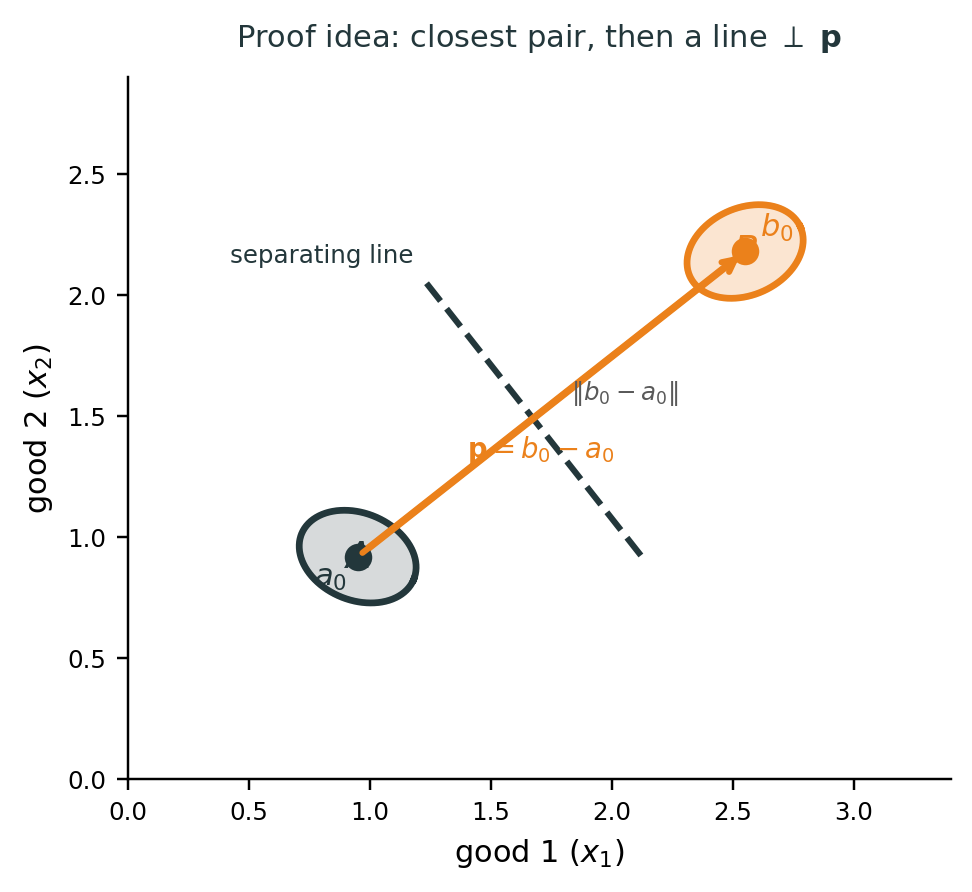
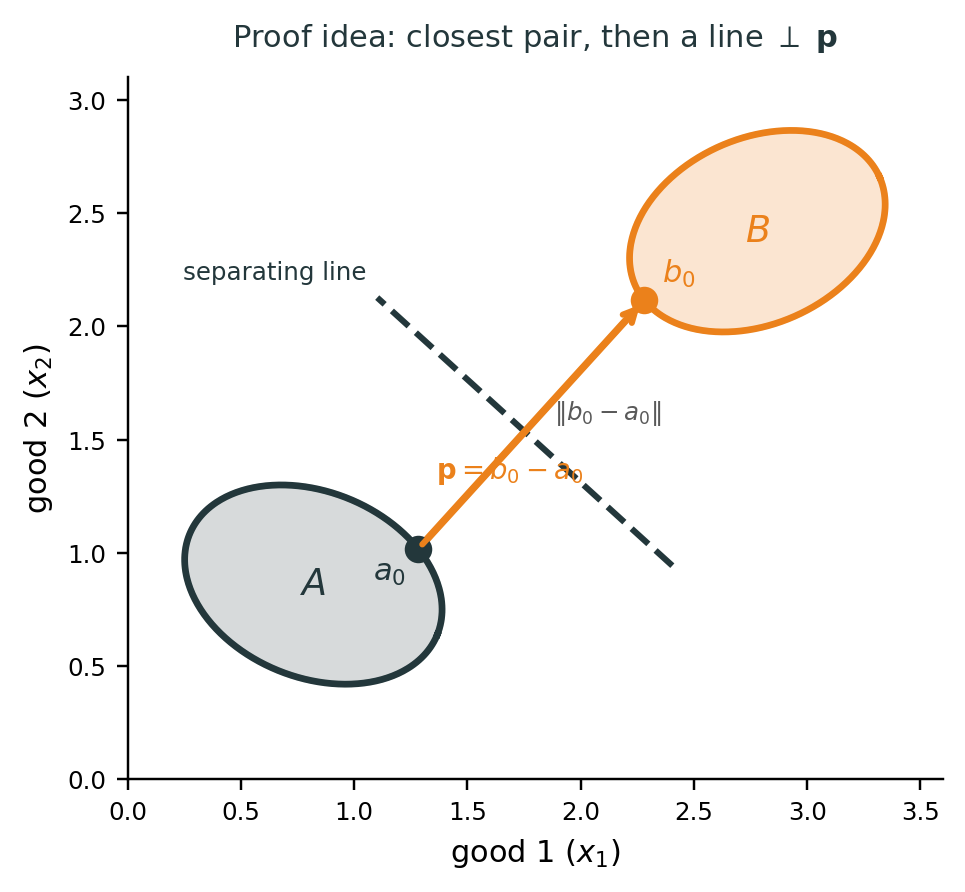
Place closest points on ellipse boundaries in separation figures.
Enlarge sets A and B and compute a_0, b_0 on their boundaries toward the other set for both the main and proof-idea plots.

diff --git a/slides/day 3/figures/make_separation_plot.py b/slides/day 3/figures/make_separation_plot.py
@@ -27,6 +27,22 @@ def _ellipse_points(
     return center[0] + xy[0], center[1] + xy[1]
 
 
+def _boundary_point_toward(
+    center: tuple[float, float] | np.ndarray,
+    width: float,
+    height: float,
+    angle_deg: float,
+    direction: np.ndarray,
+) -> np.ndarray:
+    """Boundary point of the ellipse farthest from center in `direction`."""
+    xs, ys = _ellipse_points(center, width, height, angle_deg)
+    center_arr = np.asarray(center, dtype=float)
+    d = direction / np.linalg.norm(direction)
+    scores = d[0] * (xs - center_arr[0]) + d[1] * (ys - center_arr[1])
+    idx = int(np.argmax(scores))
+    return np.array([xs[idx], ys[idx]])
+
+
 def _dot_range(
     center: tuple[float, float],
     width: float,
@@ -40,15 +56,27 @@ def _dot_range(
 
 
 def _proof_geometry() -> dict:
-    center_a = np.array([0.95, 0.92])
-    center_b = np.array([2.55, 2.18])
-    width, height = 0.50, 0.36
+    center_a = np.array([0.82, 0.86])
+    center_b = np.array([2.78, 2.42])
+    width, height = 1.18, 0.82
     angle_a, angle_b = -22.0, 24.0
-    p = np.array([0.72, 0.69])
-    p = p / np.linalg.norm(p)
-    max_a, _ = _dot_range(tuple(center_a), width, height, angle_a, p)
-    _, min_b = _dot_range(tuple(center_b), width, height, angle_b, p)
-    beta = max_a + 0.45 * (min_b - max_a)
+
+    toward_b = center_b - center_a
+    toward_a = center_a - center_b
+    a0 = _boundary_point_toward(center_a, width, height, angle_a, toward_b)
+    b0 = _boundary_point_toward(center_b, width, height, angle_b, toward_a)
+
+    p_vec = b0 - a0
+    p_unit = p_vec / np.linalg.norm(p_vec)
+
+    max_a, _ = _dot_range(tuple(center_a), width, height, angle_a, p_unit)
+    _, min_b = _dot_range(tuple(center_b), width, height, angle_b, p_unit)
+    gap = min_b - max_a
+    if gap <= 0.03:
+        raise RuntimeError("Ellipses overlap along separating direction.")
+
+    beta = max_a + 0.45 * gap
+
     return {
         "center_a": center_a,
         "center_b": center_b,
@@ -56,11 +84,11 @@ def _proof_geometry() -> dict:
         "height": height,
         "angle_a": angle_a,
         "angle_b": angle_b,
-        "p_unit": p,
+        "p_unit": p_unit,
         "beta": beta,
-        "a0": center_a,
-        "b0": center_b,
-        "p_vec": center_b - center_a,
+        "a0": a0,
+        "b0": b0,
+        "p_vec": p_vec,
     }
 
 
@@ -126,21 +154,33 @@ def _draw_ellipses(ax: plt.Axes, geom: dict) -> None:
     )
 
 
+def _axis_style(ax: plt.Axes, title: str) -> None:
+    ax.set_xlim(0.0, 3.6)
+    ax.set_ylim(0.0, 3.1)
+    ax.set_xlabel(r"good 1 ($x_1$)", fontsize=10)
+    ax.set_ylabel(r"good 2 ($x_2$)", fontsize=10)
+    ax.set_title(title, fontsize=10, color=DARK_TEAL, pad=10)
+    ax.set_aspect("equal", adjustable="box")
+    ax.spines["top"].set_visible(False)
+    ax.spines["right"].set_visible(False)
+    ax.tick_params(labelsize=8)
+
+
 def make_separation_plot() -> None:
     """A below a downward-sloping line; B above; p has positive components."""
     geom = _proof_geometry()
     p = geom["p_unit"]
     beta = geom["beta"]
-    center_a = geom["center_a"]
-    center_b = geom["center_b"]
+    a0 = geom["a0"]
+    b0 = geom["b0"]
 
     fig, ax = plt.subplots(figsize=(5.6, 4.2), dpi=220)
     _draw_ellipses(ax, geom)
 
     tangent = np.array([-p[1], p[0]])
-    gap_mid = 0.5 * (center_a + center_b)
+    gap_mid = 0.5 * (a0 + b0)
     line_center = gap_mid - (np.dot(p, gap_mid) - beta) * p
-    seg_half = 0.62
+    seg_half = 0.78
     line_start = line_center - seg_half * tangent
     line_end = line_center + seg_half * tangent
     ax.plot(
@@ -169,20 +209,7 @@ def make_separation_plot() -> None:
         zorder=6,
     )
 
-    ax.set_xlim(0.0, 3.4)
-    ax.set_ylim(0.0, 2.9)
-    ax.set_xlabel(r"good 1 ($x_1$)", fontsize=10)
-    ax.set_ylabel(r"good 2 ($x_2$)", fontsize=10)
-    ax.set_title(
-        r"Disjoint convex sets separated by a line",
-        fontsize=10,
-        color=DARK_TEAL,
-        pad=10,
-    )
-    ax.set_aspect("equal", adjustable="box")
-    ax.spines["top"].set_visible(False)
-    ax.spines["right"].set_visible(False)
-    ax.tick_params(labelsize=8)
+    _axis_style(ax, r"Disjoint convex sets separated by a line")
 
     out = OUT_DIR / "separation_hyperplane.png"
     fig.subplots_adjust(top=0.90, bottom=0.14, left=0.12, right=0.98)
@@ -192,7 +219,7 @@ def make_separation_plot() -> None:
 
 
 def make_separation_proof_plot() -> None:
-    """Proof idea: closest pair, normal p=b0-a0, perpendicular separating line."""
+    """Proof idea: closest pair on boundaries, normal p=b0-a0, separating line."""
     geom = _proof_geometry()
     a0 = geom["a0"]
     b0 = geom["b0"]
@@ -207,8 +234,8 @@ def make_separation_proof_plot() -> None:
     ax.plot([a0[0], b0[0]], [a0[1], b0[1]], color=ACCENT, linewidth=2.4, zorder=5)
     ax.plot(a0[0], a0[1], "o", color=DARK_TEAL, markersize=8, zorder=6)
     ax.plot(b0[0], b0[1], "o", color=ACCENT, markersize=8, zorder=6)
-    ax.text(a0[0] - 0.18, a0[1] - 0.12, r"$a_0$", fontsize=10, color=DARK_TEAL, zorder=7)
-    ax.text(b0[0] + 0.06, b0[1] + 0.06, r"$b_0$", fontsize=10, color=ACCENT, zorder=7)
+    ax.text(a0[0] - 0.20, a0[1] - 0.14, r"$a_0$", fontsize=10, color=DARK_TEAL, zorder=7)
+    ax.text(b0[0] + 0.08, b0[1] + 0.08, r"$b_0$", fontsize=10, color=ACCENT, zorder=7)
 
     ax.annotate(
         "",
@@ -218,15 +245,15 @@ def make_separation_proof_plot() -> None:
         zorder=6,
     )
     ax.text(
-        midpoint[0] - 0.35,
-        midpoint[1] - 0.22,
+        midpoint[0] - 0.42,
+        midpoint[1] - 0.24,
         r"$\mathbf{p}=b_0-a_0$",
         fontsize=9,
         color=ACCENT,
         zorder=7,
     )
     ax.text(
-        midpoint[0] + 0.08,
+        midpoint[0] + 0.10,
         midpoint[1] + 0.02,
         r"$\|b_0-a_0\|$",
         fontsize=8,
@@ -236,7 +263,7 @@ def make_separation_proof_plot() -> None:
 
     tangent = np.array([-p_unit[1], p_unit[0]])
     line_center = midpoint - (np.dot(p_unit, midpoint) - beta) * p_unit
-    seg_half = 0.72
+    seg_half = 0.88
     line_start = line_center - seg_half * tangent
     line_end = line_center + seg_half * tangent
     ax.plot(
@@ -257,20 +284,7 @@ def make_separation_proof_plot() -> None:
         zorder=7,
     )
 
-    ax.set_xlim(0.0, 3.4)
-    ax.set_ylim(0.0, 2.9)
-    ax.set_xlabel(r"good 1 ($x_1$)", fontsize=10)
-    ax.set_ylabel(r"good 2 ($x_2$)", fontsize=10)
-    ax.set_title(
-        r"Proof idea: closest pair, then a line $\perp\ \mathbf{p}$",
-        fontsize=10,
-        color=DARK_TEAL,
-        pad=10,
-    )
-    ax.set_aspect("equal", adjustable="box")
-    ax.spines["top"].set_visible(False)
-    ax.spines["right"].set_visible(False)
-    ax.tick_params(labelsize=8)
+    _axis_style(ax, r"Proof idea: closest pair, then a line $\perp\ \mathbf{p}$")
 
     out = OUT_DIR / "separation_proof_idea.png"
     fig.subplots_adjust(top=0.90, bottom=0.14, left=0.12, right=0.98)